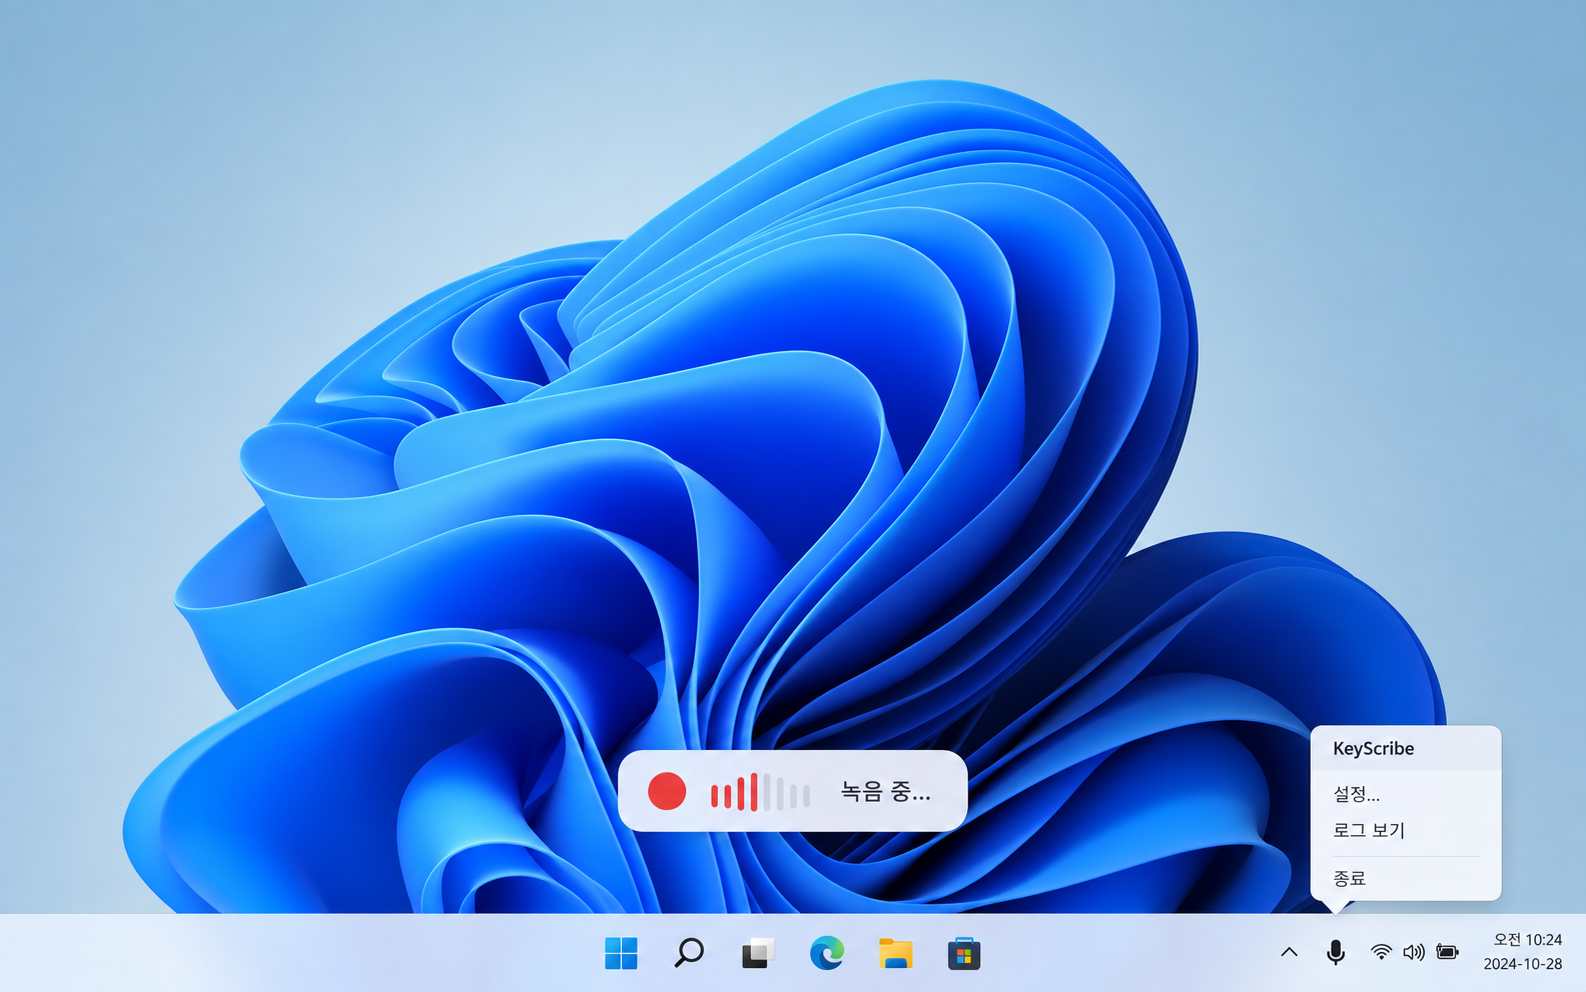
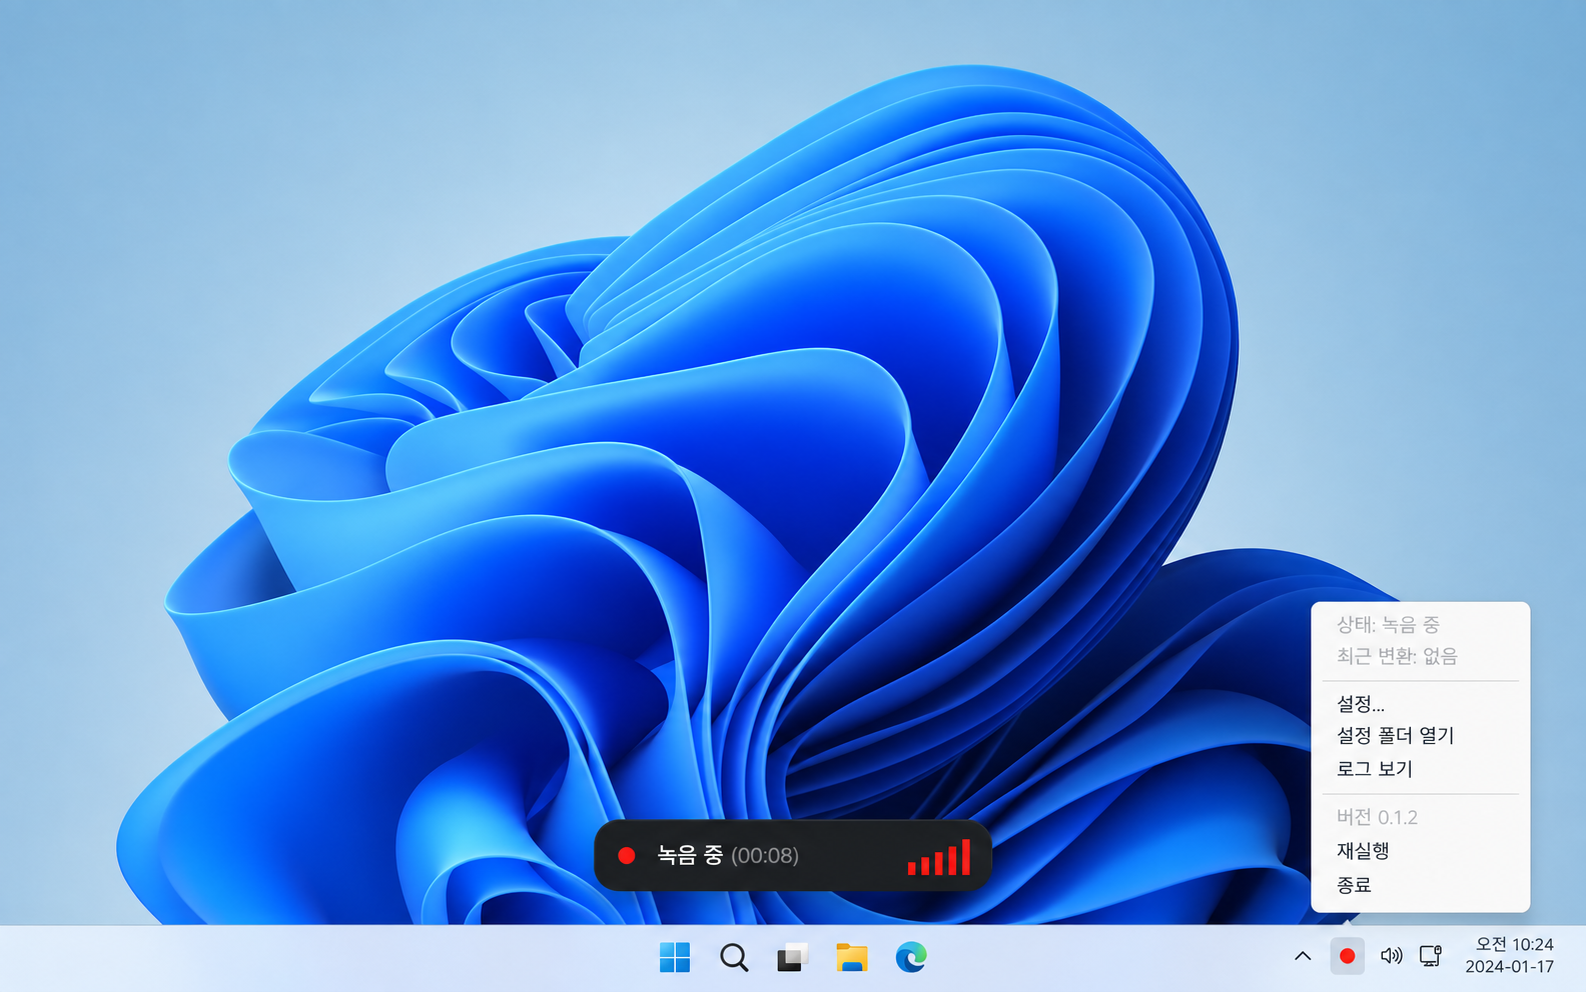
Move diagnostic log access to tray menus

Changed region(s): [[0.0, 0.0625, 1.0, 1.0], [0.0927, 0.4375, 0.2163, 0.6562], [0.3398, 0.4375, 0.4325, 0.4688]]

diff --git a/native/macos/Sources/KeyScribe/SettingsDialog.swift b/native/macos/Sources/KeyScribe/SettingsDialog.swift
@@ -24,7 +24,6 @@ final class SettingsDialog: NSObject, NSTextFieldDelegate {
     private let recordingStartSoundVolume = NSSlider()
     private let recordingStartSoundValue = NSTextField(labelWithString: "100%")
     private let autoSend = NSButton(checkboxWithTitle: "붙여넣은 뒤 Enter 입력", target: nil, action: nil)
-    private let logButton = NSButton(title: "로그 보기", target: nil, action: nil)
 
     init(settings: Settings) {
         original = settings
@@ -191,10 +190,6 @@ final class SettingsDialog: NSObject, NSTextFieldDelegate {
         autoSend.frame = NSRect(x: 125, y: 78, width: 350, height: 25)
         autoSend.state = original.autoSend ? .on : .off
         form.addSubview(autoSend)
-        logButton.frame = NSRect(x: 125, y: 8, width: 90, height: 25)
-        logButton.target = self
-        logButton.action = #selector(openLog(_:))
-        form.addSubview(logButton)
 
         updateProvider()
         return form
@@ -202,11 +197,6 @@ final class SettingsDialog: NSObject, NSTextFieldDelegate {
 
     @objc private func recordingStartSoundVolumeChanged(_ sender: NSSlider) {
         recordingStartSoundValue.stringValue = "\(Int(sender.doubleValue.rounded()))%"
-    }
-
-    @objc private func openLog(_ sender: Any?) {
-        DebugLog.shared.record("log opened by user")
-        NSWorkspace.shared.open(DebugLog.shared.fileURL)
     }
 
     private func updateProvider() {

diff --git a/native/macos/Sources/KeyScribe/main.swift b/native/macos/Sources/KeyScribe/main.swift
@@ -90,6 +90,7 @@ final class KeyScribeApp: NSObject, NSApplicationDelegate {
         menu.addItem(.separator())
         menu.addItem(NSMenuItem(title: "설정…", action: #selector(showSettings(_:)), keyEquivalent: ","))
         menu.addItem(NSMenuItem(title: "설정 폴더 열기", action: #selector(openSettingsFolder(_:)), keyEquivalent: ""))
+        menu.addItem(NSMenuItem(title: "로그 보기", action: #selector(openLog(_:)), keyEquivalent: ""))
         menu.addItem(.separator())
         let version = Bundle.main.object(forInfoDictionaryKey: "CFBundleShortVersionString") as? String ?? "개발 버전"
         let versionItem = NSMenuItem(title: "버전 \(version)", action: nil, keyEquivalent: "")
@@ -545,6 +546,11 @@ final class KeyScribeApp: NSObject, NSApplicationDelegate {
 
     @objc private func openSettingsFolder(_ sender: Any?) {
         NSWorkspace.shared.open(Settings.directory)
+    }
+
+    @objc private func openLog(_ sender: Any?) {
+        DebugLog.shared.record("log opened by user")
+        NSWorkspace.shared.open(DebugLog.shared.fileURL)
     }
 
     @objc private func quit(_ sender: Any?) { NSApp.terminate(nil) }

diff --git a/native/windows/src/ui.rs b/native/windows/src/ui.rs
@@ -716,6 +716,7 @@ unsafe fn tray_menu(hwnd: HWND) {
     AppendMenuW(menu, MF_SEPARATOR, 0, ptr::null());
     AppendMenuW(menu, MF_STRING, ID_SETTINGS, wide("설정...").as_ptr());
     AppendMenuW(menu, MF_STRING, ID_FOLDER, wide("설정 폴더 열기").as_ptr());
+    AppendMenuW(menu, MF_STRING, ID_LOG, wide("로그 보기").as_ptr());
     AppendMenuW(menu, MF_SEPARATOR, 0, ptr::null());
     AppendMenuW(
         menu,
@@ -756,6 +757,7 @@ unsafe fn tray_command(hwnd: HWND, command: usize) {
                 .arg(settings::directory())
                 .spawn();
         }
+        ID_LOG => open_log(hwnd),
         ID_RESTART => {
             match std::env::current_exe().and_then(|exe| std::process::Command::new(exe).spawn()) {
                 Ok(_) => {
@@ -1228,17 +1230,6 @@ unsafe fn show_settings(root: HWND) {
         ID_API_KEY,
     );
     label("API 키 발급", 48);
-    control(
-        dialog,
-        "BUTTON",
-        "로그 보기",
-        WS_CHILD | WS_VISIBLE | BS_PUSHBUTTON as u32,
-        18,
-        610,
-        100,
-        32,
-        ID_LOG,
-    );
     control(
         dialog,
         "BUTTON",
@@ -1766,7 +1757,6 @@ unsafe extern "system" fn dialog_proc(
                     open_api_key_page(hwnd, "https://elevenlabs.io/app/developers/api-keys")
                 }
                 ID_OPENAI_KEY => open_api_key_page(hwnd, "https://platform.openai.com/api-keys"),
-                ID_LOG => open_log(hwnd),
                 ID_API_KEY if (wparam >> 16) == EN_CHANGE as usize => {
                     dialog_state(hwnd).request_id = NEXT_REQUEST.fetch_add(1, Ordering::Relaxed);
                     dialog_state(hwnd).pending_key = None;
